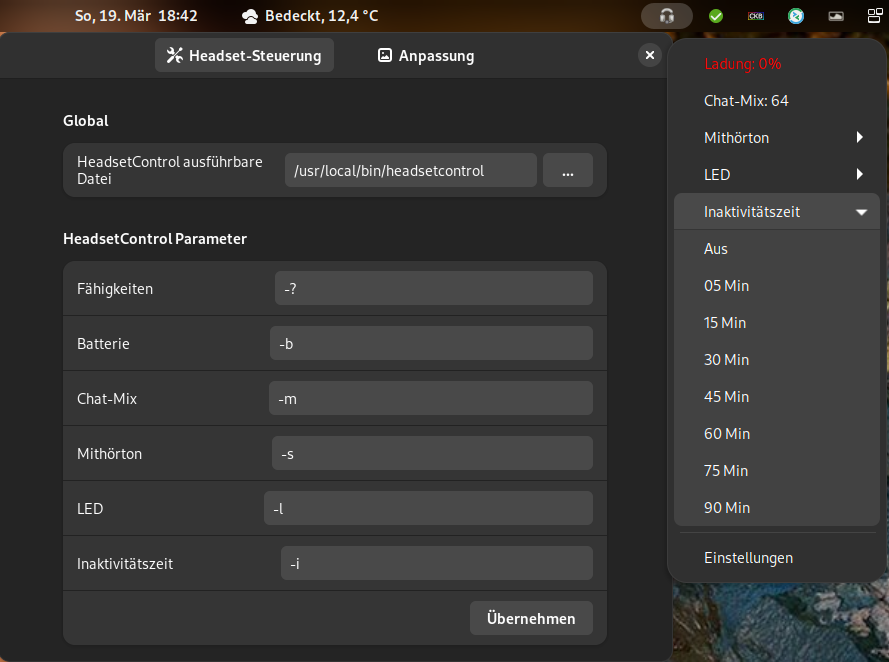
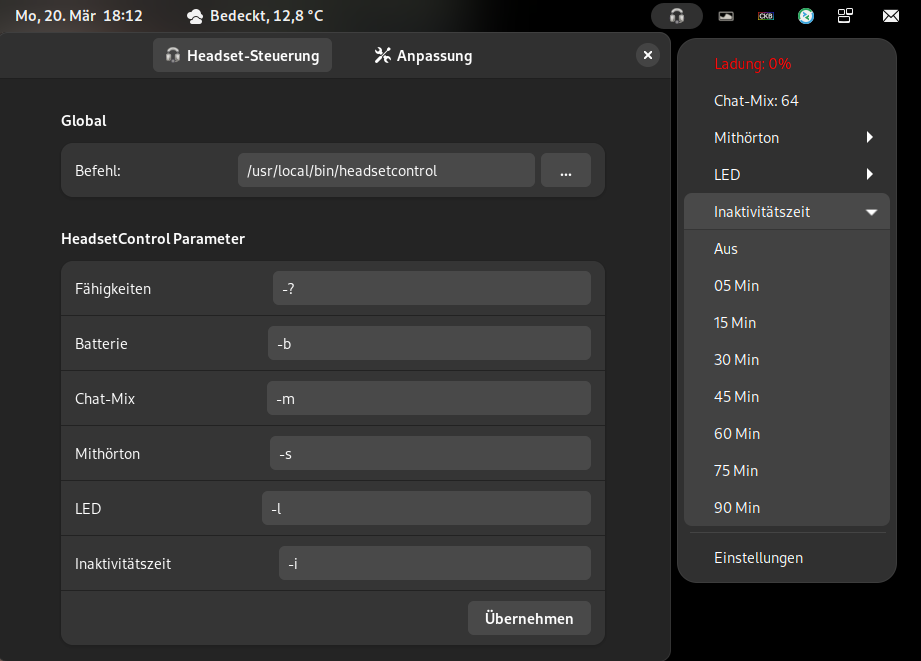
Detect changes in settings and apply them automatically #1

diff --git a/HeadsetControl@lauinger-clan.de/extension.js b/HeadsetControl@lauinger-clan.de/extension.js
@@ -73,7 +73,12 @@ const HeadsetControlIndicator = GObject.registerClass(
       if (this._usenotifications) {
         Main.notify(_("HeadsetControl"), strText);
       }
-      log(_("HeadsetControl") + " " + strText);
+    }
+
+    _logoutput(strText) {
+      if (this._uselogging) {
+        log(_("HeadsetControl") + " " + strText);
+      }
     }
 
     _addPopupMenuItem(popupMenuExpander, strLabel, strValue) {
@@ -156,6 +161,7 @@ const HeadsetControlIndicator = GObject.registerClass(
       this._cmdInacitetime =
         cmdExecutable + " " + settings.get_string("option-inactive-time");
       this._usenotifications = settings.get_boolean("use-notifications");
+      this._uselogging = settings.get_boolean("use-logging");
     }
 
     _invokecmd(cmd) {
@@ -165,6 +171,7 @@ const HeadsetControlIndicator = GObject.registerClass(
         .replace("<InactiveTime>", this._cmdInacitetime);
 
       this._notify(_("Command:") + " " + cmd);
+      this._logoutput(_("Command:") + " " + cmd);
       try {
         let output = GLib.spawn_command_line_sync(cmd)[1];
         let strOutput = imports.byteArray
@@ -172,6 +179,7 @@ const HeadsetControlIndicator = GObject.registerClass(
           .replace("\n", "###")
           .replace("Success!", "###");
         strOutput = strOutput.split("###")[1];
+        this._logoutput(strOutput);
         return strOutput;
       } catch (err) {
         // could not execute the command
@@ -233,6 +241,7 @@ const HeadsetControlIndicator = GObject.registerClass(
 
     refresh() {
       this._notify(_("Refreshing..."));
+      this._logoutput(_("Refreshing..."));
       this._refreshBatteryStatus();
       this._refreshChatMixStatus();
       return true;
@@ -255,9 +264,43 @@ class HeadsetControl {
       "button-press-event",
       this._HeadsetControlIndicator.refresh.bind(this._HeadsetControlIndicator)
     );
+
+    this._settingSignals = new Array();
+    this._settingSignals.push(
+      this._settings.connect(
+        "changed::headsetcontrol-executable",
+        this._HeadsetControlIndicator.initCmd.bind(
+          this._HeadsetControlIndicator,
+          this._settings
+        )
+      )
+    );
+    this._settingSignals.push(
+      this._settings.connect(
+        "changed::use-notifications",
+        this._HeadsetControlIndicator.initCmd.bind(
+          this._HeadsetControlIndicator,
+          this._settings
+        )
+      )
+    );
+    this._settingSignals.push(
+      this._settings.connect(
+        "changed::use-logging",
+        this._HeadsetControlIndicator.initCmd.bind(
+          this._HeadsetControlIndicator,
+          this._settings
+        )
+      )
+    );
   }
 
   disable() {
+    //Remove setting Signals
+    this._settingSignals.forEach(function (signal) {
+      this._settings.disconnect(signal);
+    }, this);
+    this._settingSignals = null;
     this._settings = null;
     this._HeadsetControlIndicator.destroy();
     this._HeadsetControlIndicator = null;

diff --git a/HeadsetControl@lauinger-clan.de/prefs.js b/HeadsetControl@lauinger-clan.de/prefs.js
@@ -25,7 +25,7 @@ class AdwPrefs {
   }
 
   changeOption(option, text) {
-    this._settings.set_string(option, text.text);
+    this._settings.set_string(option, text);
   }
 
   _onBtnClicked(btn) {
@@ -73,13 +73,13 @@ class AdwPrefs {
     opt_led,
     opt_iat
   ) {
-    this.changeOption("headsetcontrol-executable", valueExecutable);
-    this.changeOption("option-capabilities", opt_capa);
-    this.changeOption("option-battery", opt_bat);
-    this.changeOption("option-chatmix", opt_chm);
-    this.changeOption("option-sidetone", opt_sto);
-    this.changeOption("option-led", opt_led);
-    this.changeOption("option-inactive-time", opt_iat);
+    this.changeOption("headsetcontrol-executable", valueExecutable.text);
+    this.changeOption("option-capabilities", opt_capa.text);
+    this.changeOption("option-battery", opt_bat.text);
+    this.changeOption("option-chatmix", opt_chm.text);
+    this.changeOption("option-sidetone", opt_sto.text);
+    this.changeOption("option-led", opt_led.text);
+    this.changeOption("option-inactive-time", opt_iat.text);
   }
 
   fillPreferencesWindow() {
@@ -94,7 +94,8 @@ class AdwPrefs {
     group1.set_title(_("Global"));
     group1.set_name("headsetcontrol_global");
     this._page1.add(group1);
-    adwrow = new Adw.ActionRow({ title: _("HeadsetControl executable") });
+    adwrow = new Adw.ActionRow({ title: _("Command:") });
+    adwrow.set_tooltip_text(_("file and path of headsetcontrol executable"));
     group1.add(adwrow);
     let valueExecutable = new Gtk.Entry({
       hexpand: true,
@@ -203,12 +204,14 @@ class AdwPrefs {
     this._page2.set_name("headsetcontrol_page1");
     this._page2.set_icon_name("preferences-system-symbolic");
 
-    // group1
+    // groupC1
     let groupC1 = Adw.PreferencesGroup.new();
     groupC1.set_title(_("Options"));
     groupC1.set_name("headsetcontrol_options");
     this._page2.add(groupC1);
+    //use notifications
     adwrow = new Adw.ActionRow({ title: _("Use notifications") });
+    adwrow.set_tooltip_text(_("enable / disable notifications"));
     groupC1.add(adwrow);
     let toggleusenotifications = new Gtk.Switch({
       active: this._settings.get_boolean("use-notifications"),
@@ -221,6 +224,23 @@ class AdwPrefs {
       Gio.SettingsBindFlags.DEFAULT
     );
     adwrow.add_suffix(toggleusenotifications);
+    adwrow.activatable_widget = toggleusenotifications;
+    //use logging
+    adwrow = new Adw.ActionRow({ title: _("Use logging") });
+    adwrow.set_tooltip_text(_("enable / disable log outputs"));
+    groupC1.add(adwrow);
+    let toggleuselogging = new Gtk.Switch({
+      active: this._settings.get_boolean("use-logging"),
+      valign: Gtk.Align.CENTER,
+    });
+    this._settings.bind(
+      "use-logging",
+      toggleuselogging,
+      "active",
+      Gio.SettingsBindFlags.DEFAULT
+    );
+    adwrow.add_suffix(toggleuselogging);
+    adwrow.activatable_widget = toggleuselogging;
     this._window.add(this._page2);
   }
 }
